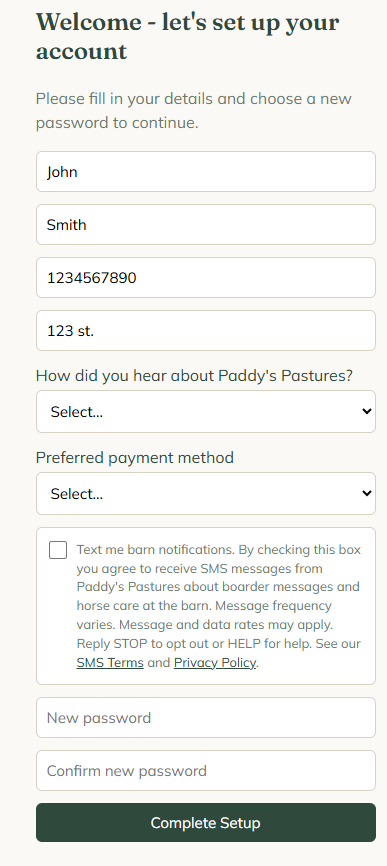
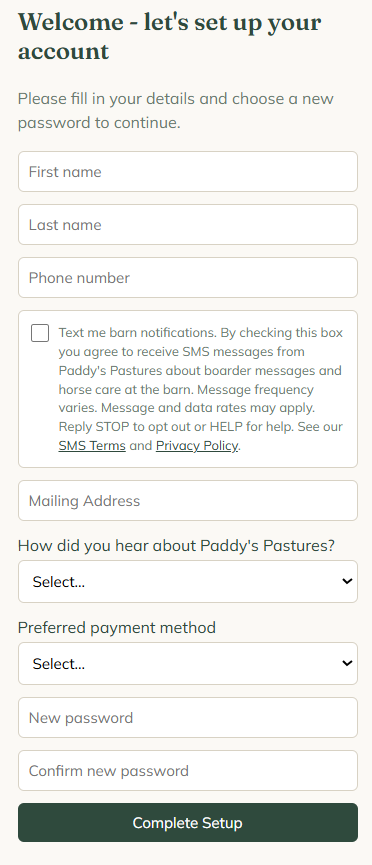
about rewording and changpassword rewording

diff --git a/public/about/index.html b/public/about/index.html
@@ -44,10 +44,10 @@
 <p>We do not send marketing or promotional texts. Message frequency varies based on activity at the barn. Msg &amp; data rates may apply. Reply STOP to any message to opt out, or HELP for help. Full details are in our <a href="/sms-terms">SMS Terms</a>.</p>
 
 <h3>How people opt in</h3>
-<p>Text notifications are optional and are never a condition of boarding with us or using the portal. When someone first signs in to set up their account, they see the checkbox below. It is unchecked by default, and we only text people who check it. The checkbox reads:</p>
+<p>Text notifications are optional and are never a condition of boarding with us or using the portal. When someone first signs in to set up their account, they enter their mobile phone number, and the consent checkbox sits directly below that field. It is unchecked by default, and we only text people who check it. The checkbox reads:</p>
 <blockquote>Text me barn notifications. By checking this box you agree to receive SMS messages from Paddy's Pastures about boarder messages and horse care at the barn. Message frequency varies. Message and data rates may apply. Reply STOP to opt out or HELP for help. See our SMS Terms and Privacy Policy.</blockquote>
 <figure>
-  <img src="/about/sms-opt-in.png" alt="Screenshot of the account setup screen in the Paddy's Pastures portal, showing the unchecked SMS consent checkbox above the new password fields.">
+  <img src="/about/sms-opt-in.png" alt="Screenshot of the account setup form in the Paddy's Pastures portal, showing the mobile phone number field with the unchecked SMS consent checkbox directly below it.">
   <figcaption>The account setup screen where people choose whether to receive texts.</figcaption>
 </figure>
 <p>We record the date and time each person opts in or out, along with the version of the SMS Terms they agreed to.</p>

diff --git a/src/ChangePassword.jsx b/src/ChangePassword.jsx
@@ -91,7 +91,7 @@ export default function ChangePassword({ userId, role, onDone }) {
         <input type="text" placeholder="Last name" value={lastName}
           onChange={(e) => setLastName(e.target.value)} required 
           autoComplete="family-name" />
-        <input type="tel" placeholder="Phone number" value={phone}
+        <input type="tel" placeholder="Mobile Phone number" value={phone}
           onChange={(e) => setPhone(e.target.value)} required 
           autoComplete="tel" />
 
